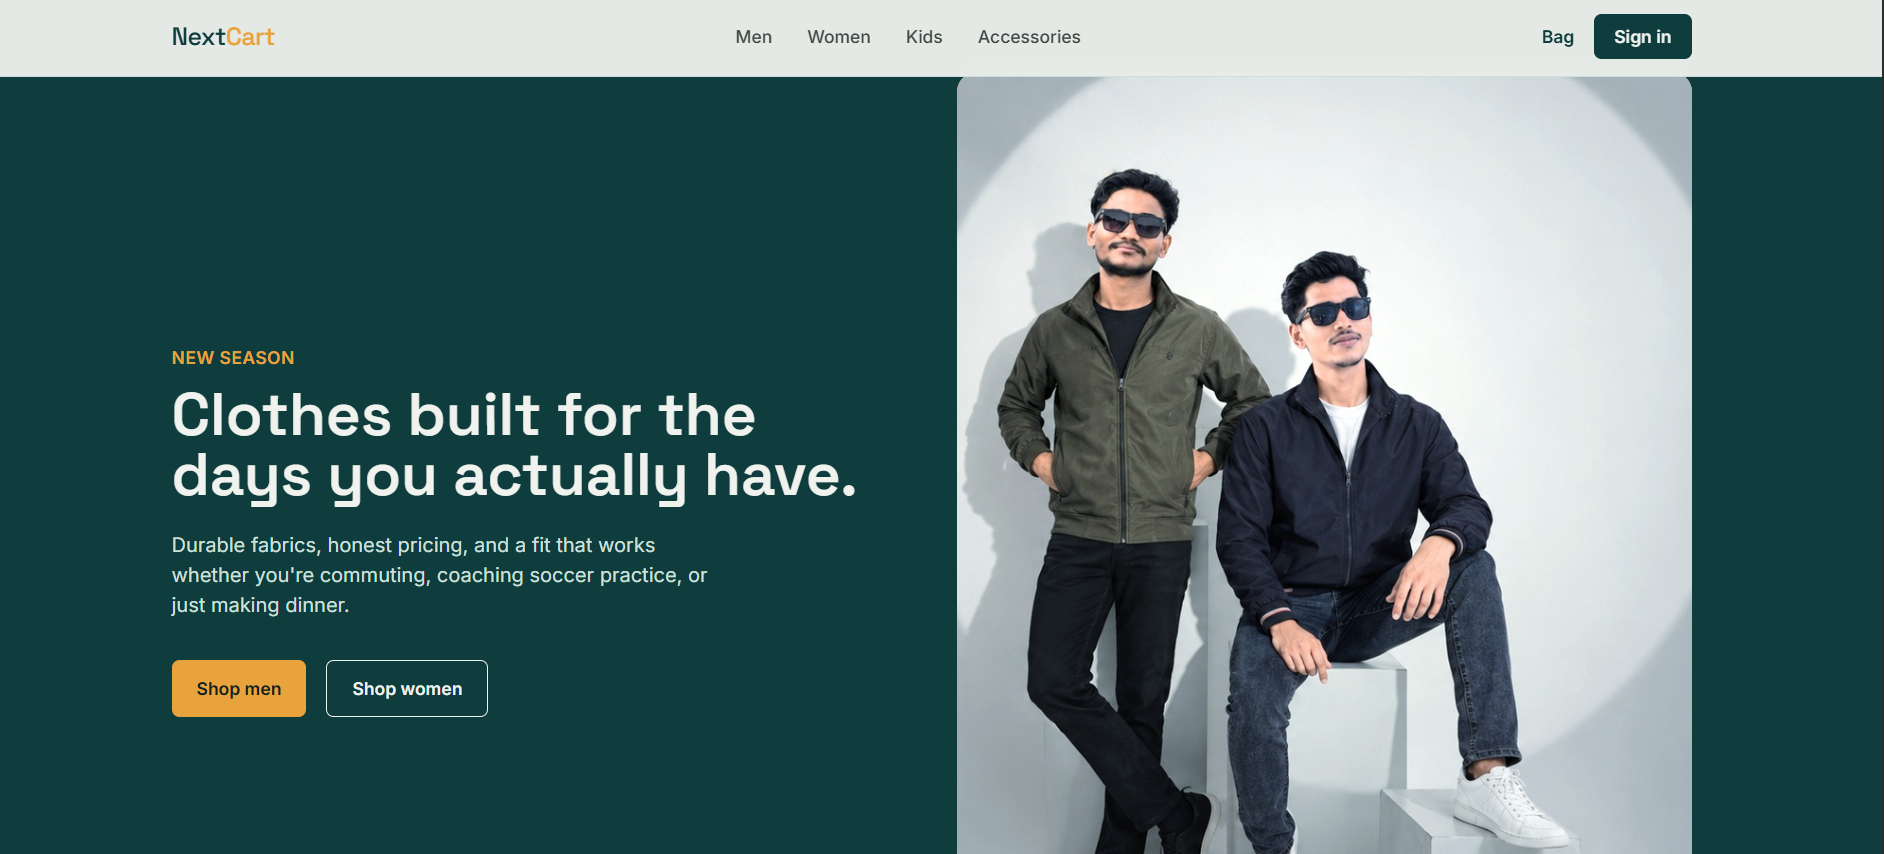
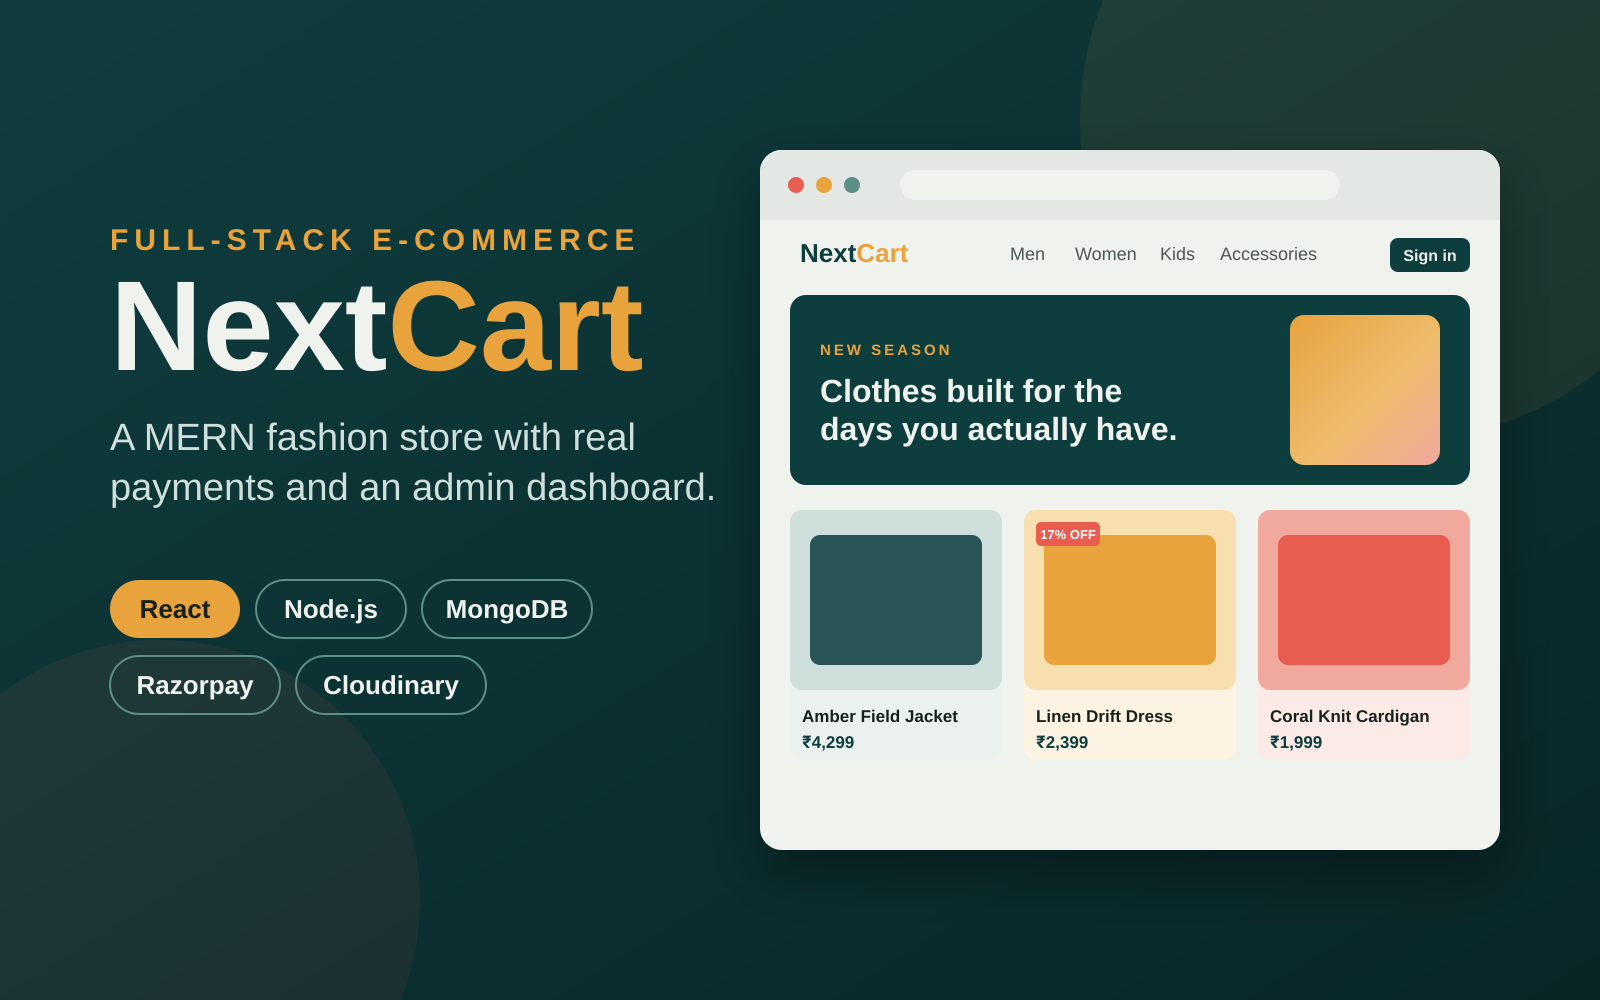
Update

diff --git a/src/components/Projects.tsx b/src/components/Projects.tsx
@@ -31,7 +31,7 @@ const projects: Project[] = [
   {
     title: "Food Delivery App",
     tech: ["React.js", "MongoDB", "Express", "Node.js"],
-    image: "https://images.unsplash.com/photo-1504674900247-0877df9cc836?auto=format&fit=crop&w=1000&q=80",
+    image: "/food-delivery.png",
     description:
       "Full-stack food ordering platform featuring user authentication, dynamic cart management, Stripe payment gateway integration, and a real-time admin order dashboard.",
     highlights: [
